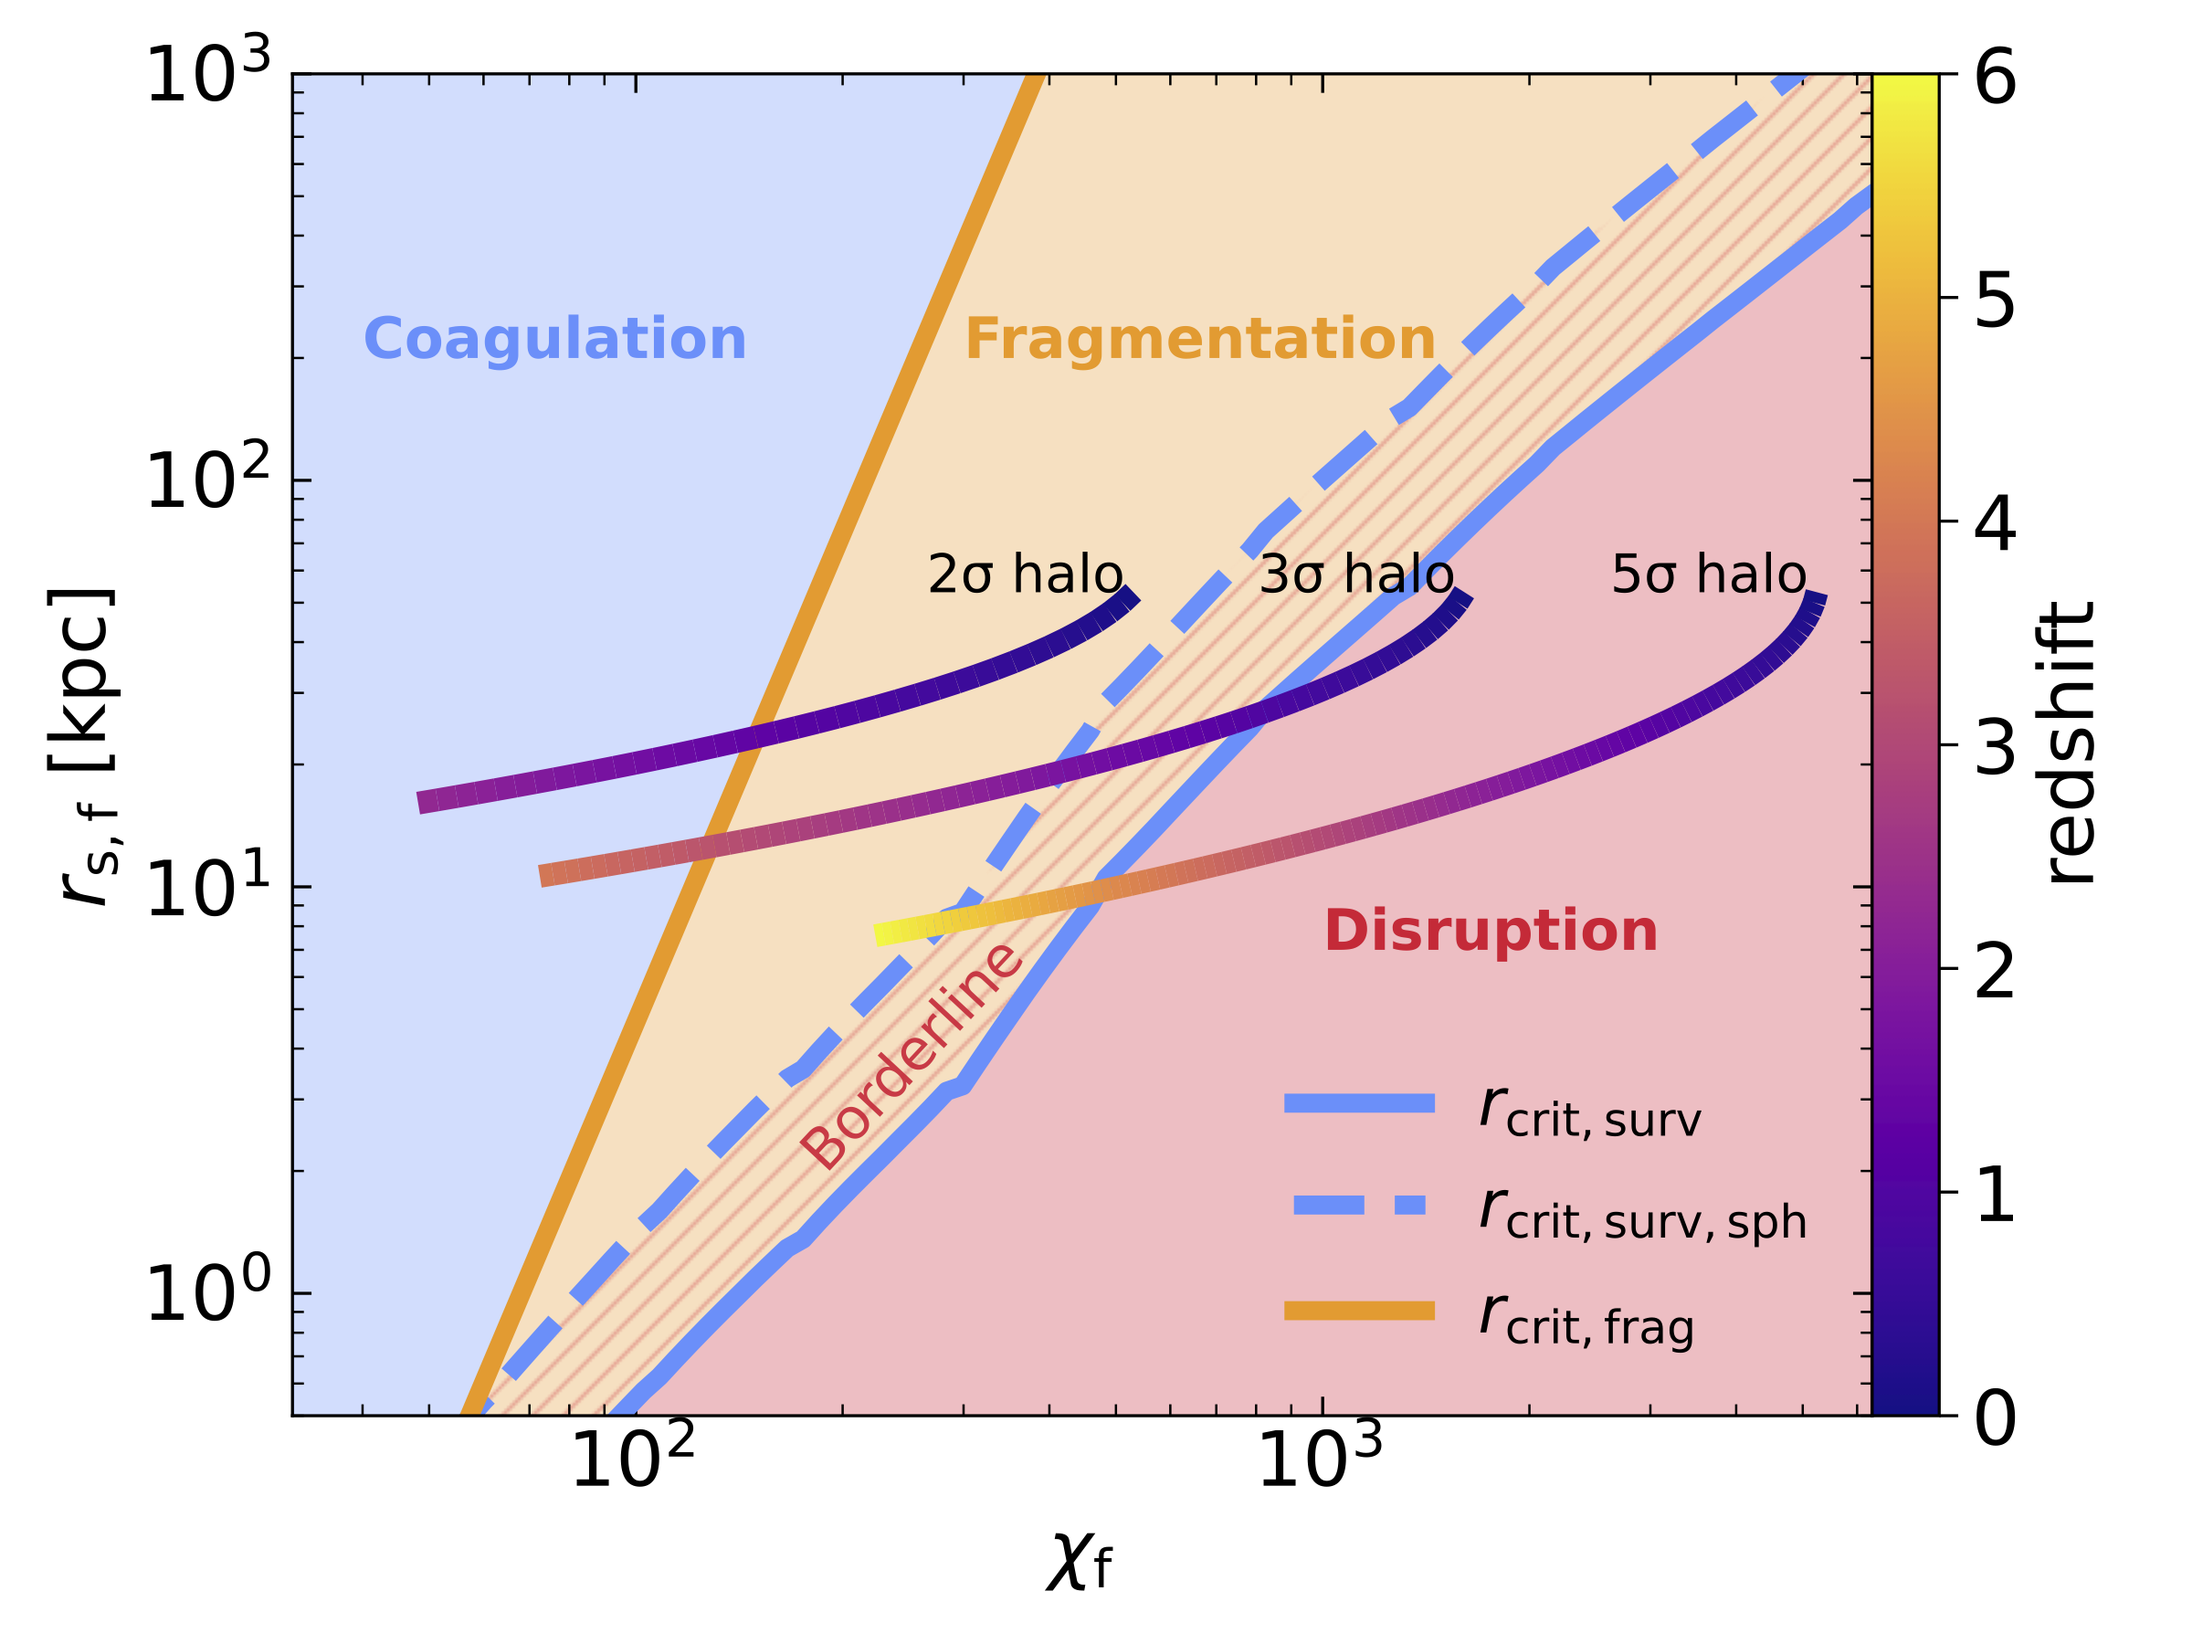
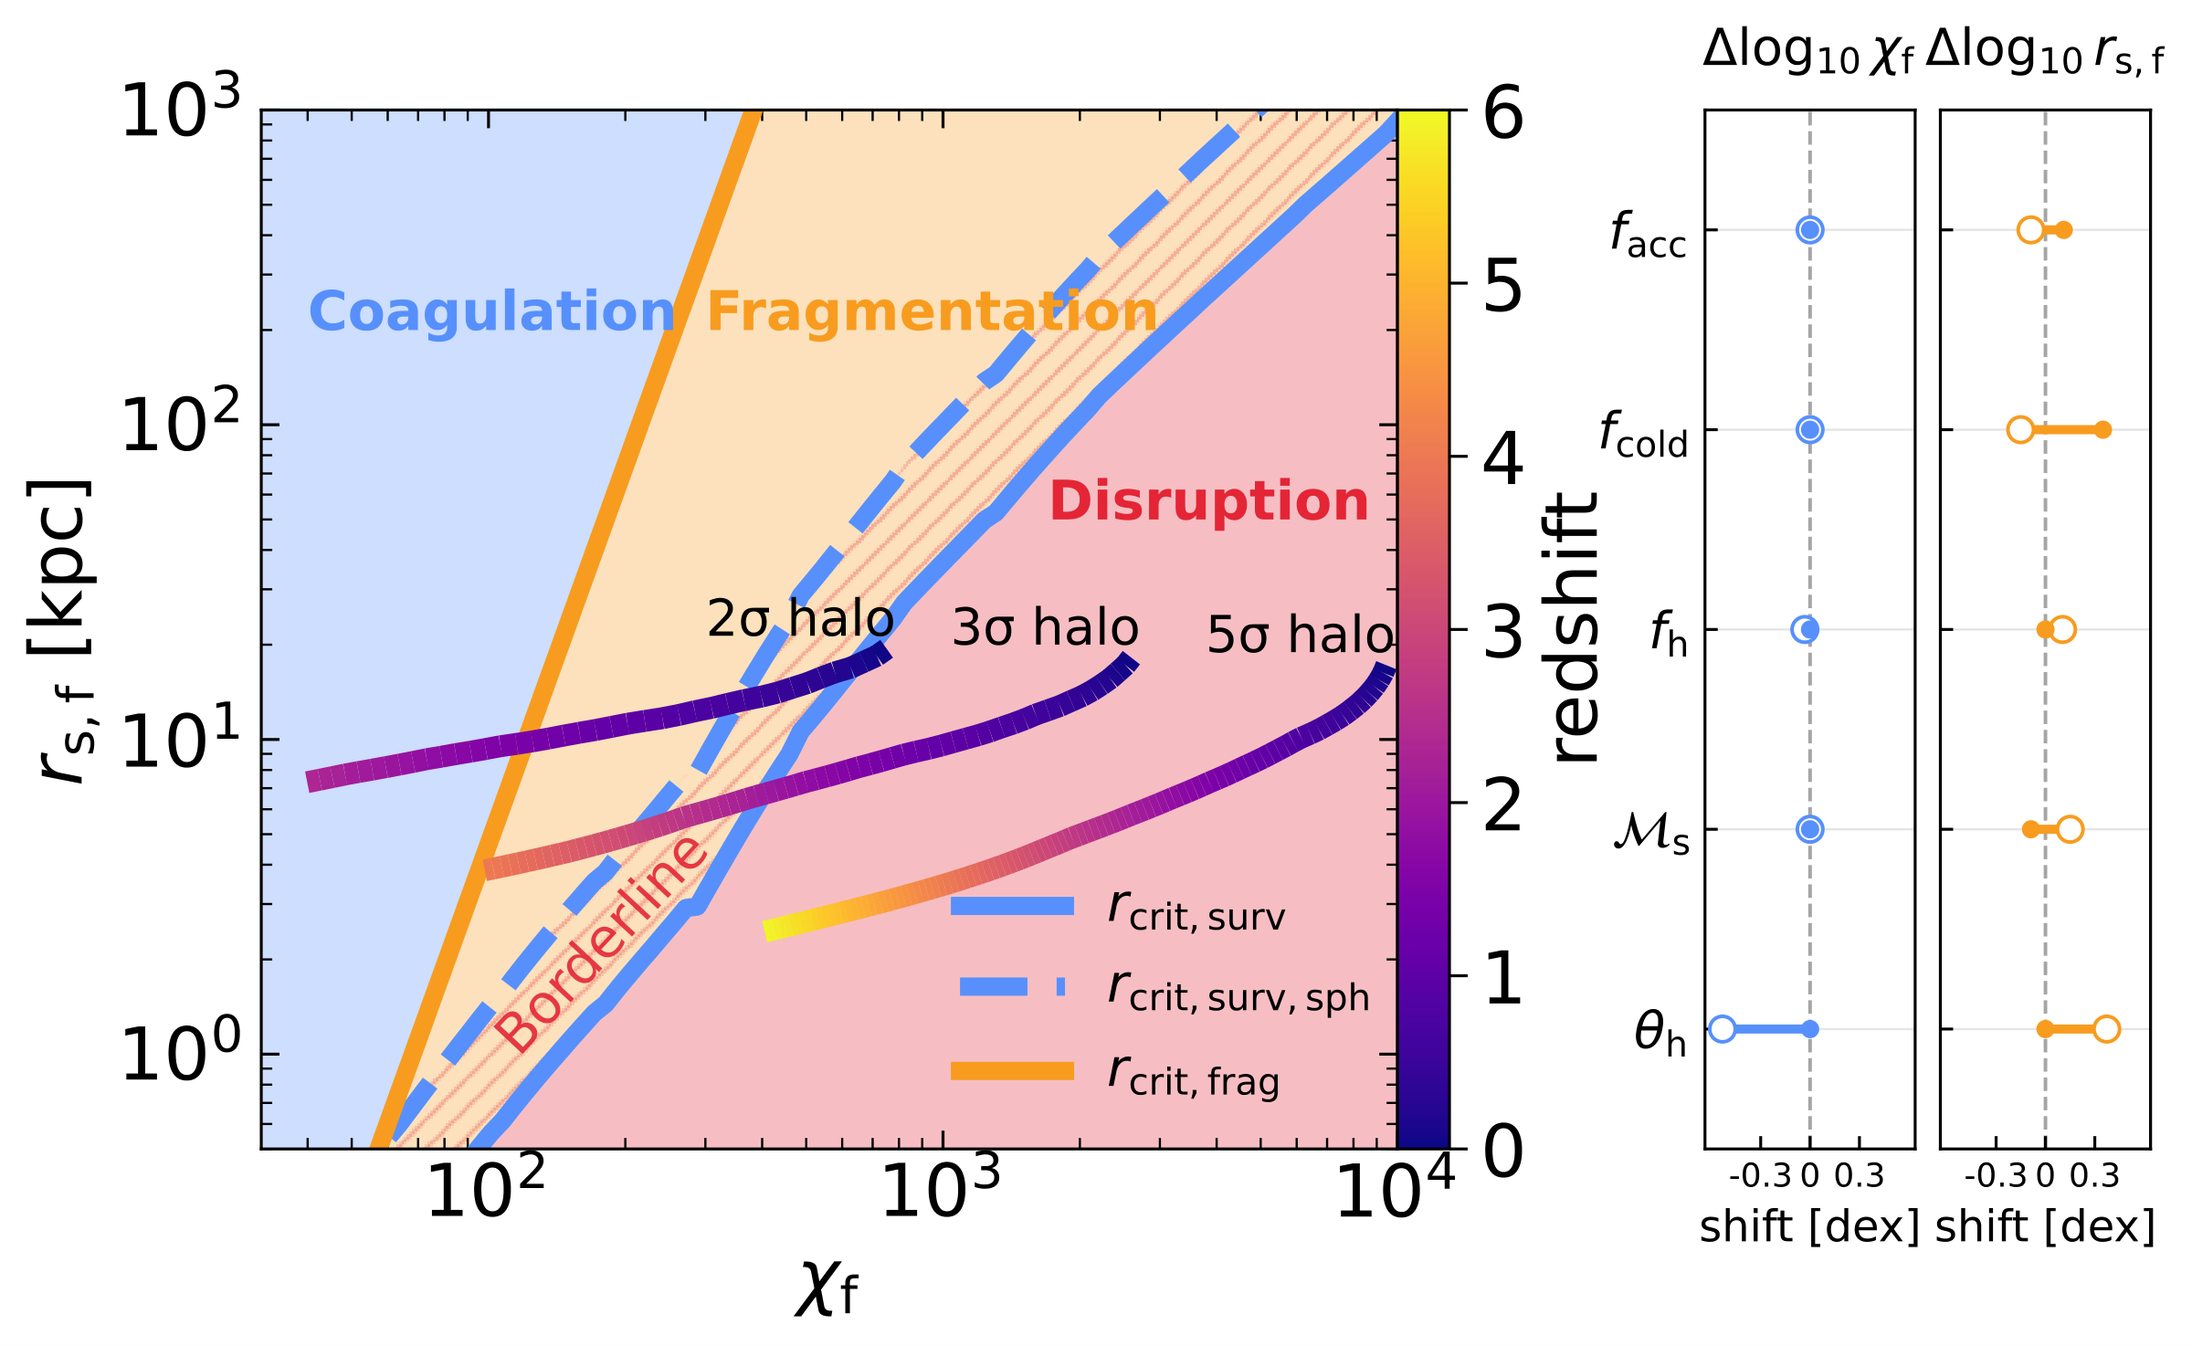
Update Figs. 16 and 17 on stream penetration page from latest draft
- Re-render Diag_size_chi_halo and Diag_Mv_z from draft PDFs
- Rewrite captions to match the revised paper captions

diff --git a/stream_penetration.html b/stream_penetration.html
@@ -294,13 +294,13 @@ footer{margin-top:60px;padding-top:18px;border-top:1px solid var(--rule);font-si
   <p>This section follows §7 of the paper, where the per-run regimes above are folded into halo growth tracks to determine which halos a cold stream can actually reach. The two diagnostic figures below summarise the result.</p>
 
   <figure class="fig">
-    <img src="images/penetration/Diag_size_chi_halo.png" alt="r_s,f vs chi_f regime diagram with halo evolutionary tracks">
-    <figcaption><strong>Fig. 16 of the paper.</strong> The (r<sub>s,f</sub>, χ<sub>f</sub>) regime diagram with halo evolutionary tracks for 2σ, 3σ and 5σ peaks colour-coded by redshift. Halos associated with 1𝜎 peaks typically reside within filaments and therefore are not expected to undergo the stream-penetration scenario considered here. In contrast, higher-𝜎 peak halos progressively transition from the coagulation regime to fragmentation, and eventually to disruption for 3𝜎 and higher peaks toward lower redshift. See the paper for details.</figcaption>
+    <img src="images/penetration/Diag_size_chi_halo.png" alt="Left: r_s,f vs chi_f regime diagram with halo evolutionary tracks; right: parameter-sensitivity shifts in chi_f and r_s,f">
+    <figcaption><strong>Fig. 16 of the paper.</strong> <em>Left:</em> the (&chi;<sub>f</sub>, r<sub>s,f</sub>) regime diagram (as in Fig. 2 of the paper), with evolutionary tracks of 2&sigma;, 3&sigma; and 5&sigma; peak halos colour-coded by redshift, for the fiducial model parameters. Halos are required to remain above M<sub>shock</sub>&nbsp;~&nbsp;6&times;10<sup>11</sup>&nbsp;M<sub>&#9737;</sub> to sustain a hot CGM (Dekel &amp; Birnboim 2006). Along these tracks, halos progressively transition from coagulation to fragmentation, and eventually to disruption toward lower redshift. <em>Right:</em> shifts in log<sub>10</sub>&nbsp;&chi;<sub>f</sub> (blue) and log<sub>10</sub>&nbsp;r<sub>s,f</sub> (orange) relative to the fiducial model when each input parameter is varied over its adopted range, with the others held fixed and the equilibrium temperature determined self-consistently. Open and filled circles mark the lower and upper parameter values; vertical dashed lines mark zero change. See the paper for details.</figcaption>
   </figure>
 
   <figure class="fig">
-    <img src="images/penetration/Diag_Mv_z.png" alt="Halo mass versus redshift map showing where cold streams penetrate">
-    <figcaption><strong>Fig. 17 of the paper.</strong> Cold-stream penetration as a function of halo virial mass M<sub>v</sub> and redshift z. The orange curve marks the criterion for the early bow-shock transition; the red curve encloses the regime in which the post-shock cooling time exceeds the virial crossing time, implying that the shocked stream remains hot before reaching the central galaxy; the purple curves bracket the regime where streams survive shear-driven (KHI) disruption. See the paper for details.</figcaption>
+    <img src="images/penetration/Diag_Mv_z.png" alt="Halo mass versus redshift map showing where cold streams survive, are shock-heated, or are disrupted">
+    <figcaption><strong>Fig. 17 of the paper.</strong> Cold-stream penetration in the halo mass&ndash;redshift plane. Solid curves use the fiducial model parameters; shaded bands show the variation over the adopted parameter ranges. The horizontal gray line marks the transition between hot and cold accretion, M<sub>shock</sub>&nbsp;&asymp;&nbsp;6&times;10<sup>11</sup>&nbsp;M<sub>&#9737;</sub> (Dekel &amp; Birnboim 2006). The orange curve marks the bow-shock heating criterion, &#119979;&nbsp;=&nbsp;2&chi;<sub>f</sub><sup>1/2</sup>&#8499;<sub>s</sub>; the red curve marks t<sub>cool,post</sub>&nbsp;=&nbsp;t<sub>v</sub>, separating shock-heated streams that can cool within a virial crossing time from those that remain hot; the blue curve marks the shear-survival threshold, r<sub>s,f</sub>&nbsp;=&nbsp;r<sub>crit,surv</sub>. Dotted segments indicate where a criterion is no longer valid. Orange and red hatching identify early bow-shock heating and bow-shock disruption due to inefficient post-shock cooling, and blue stippling identifies shear disruption, for the fiducial parameters. Black points show halo masses inferred from the bending of the SFR relation (Daddi et al. 2022); black dashed lines show evolutionary tracks of 2&sigma;, 3&sigma; and 5&sigma; peak halos. See the paper for details.</figcaption>
   </figure>
 
   <h2>Appendix. Convergence tests</h2>
